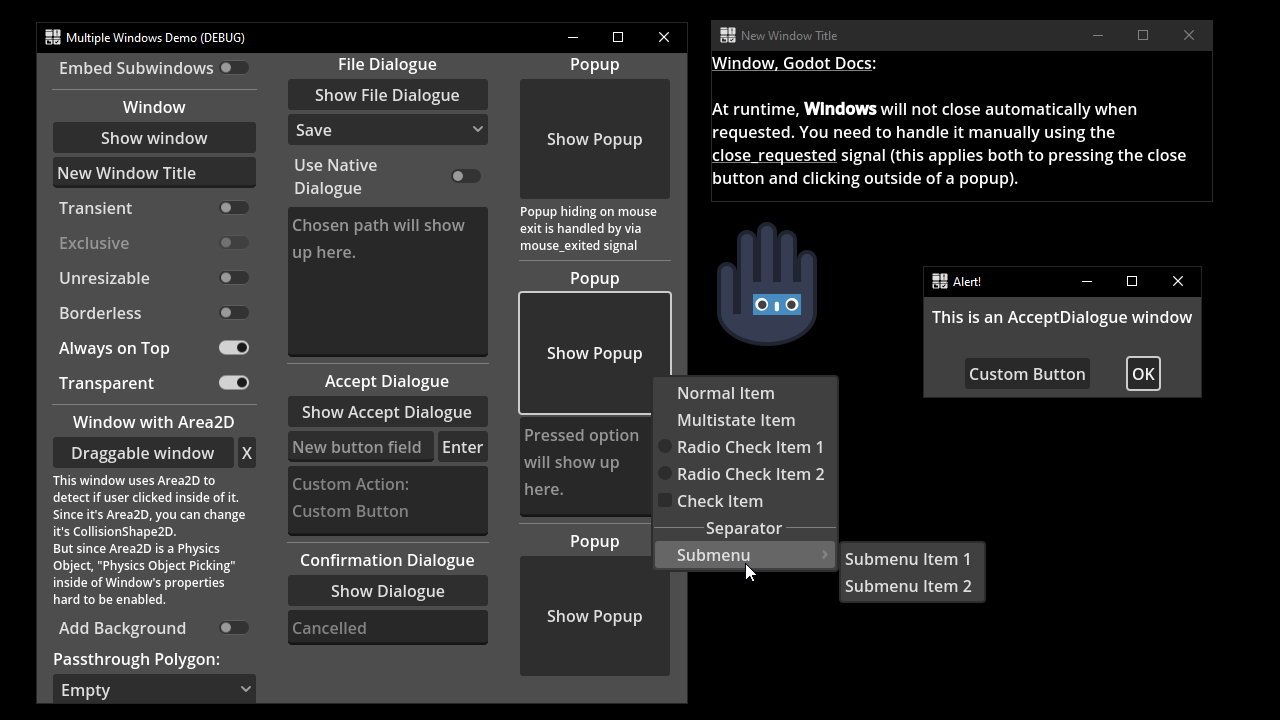
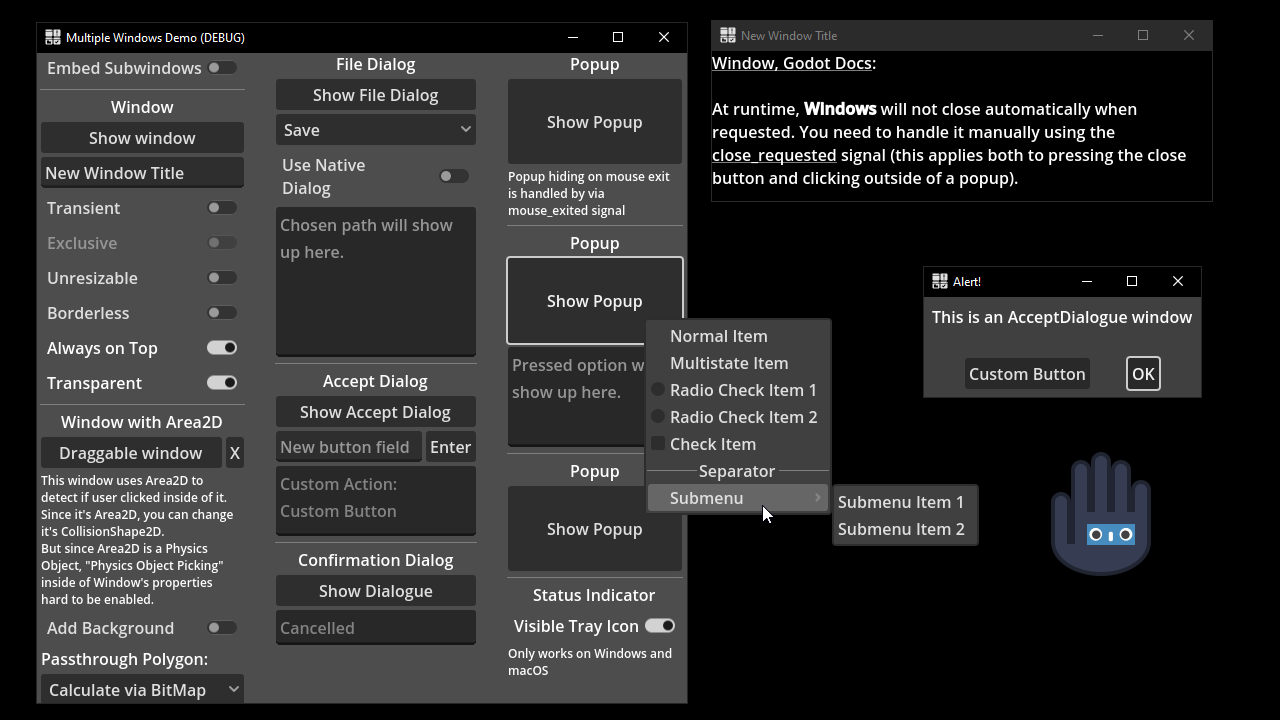
Add StatusIndicator

diff --git a/misc/multiple_windows/README.md b/misc/multiple_windows/README.md
@@ -9,6 +9,7 @@ It includes:
 - Showcase of all Dialog Windows.
 - Showcase of all Popup Windows.
 - Adding elements to Popup Menu.
+- Adding an icon to system tray.
 
 Language: GDScript
 
